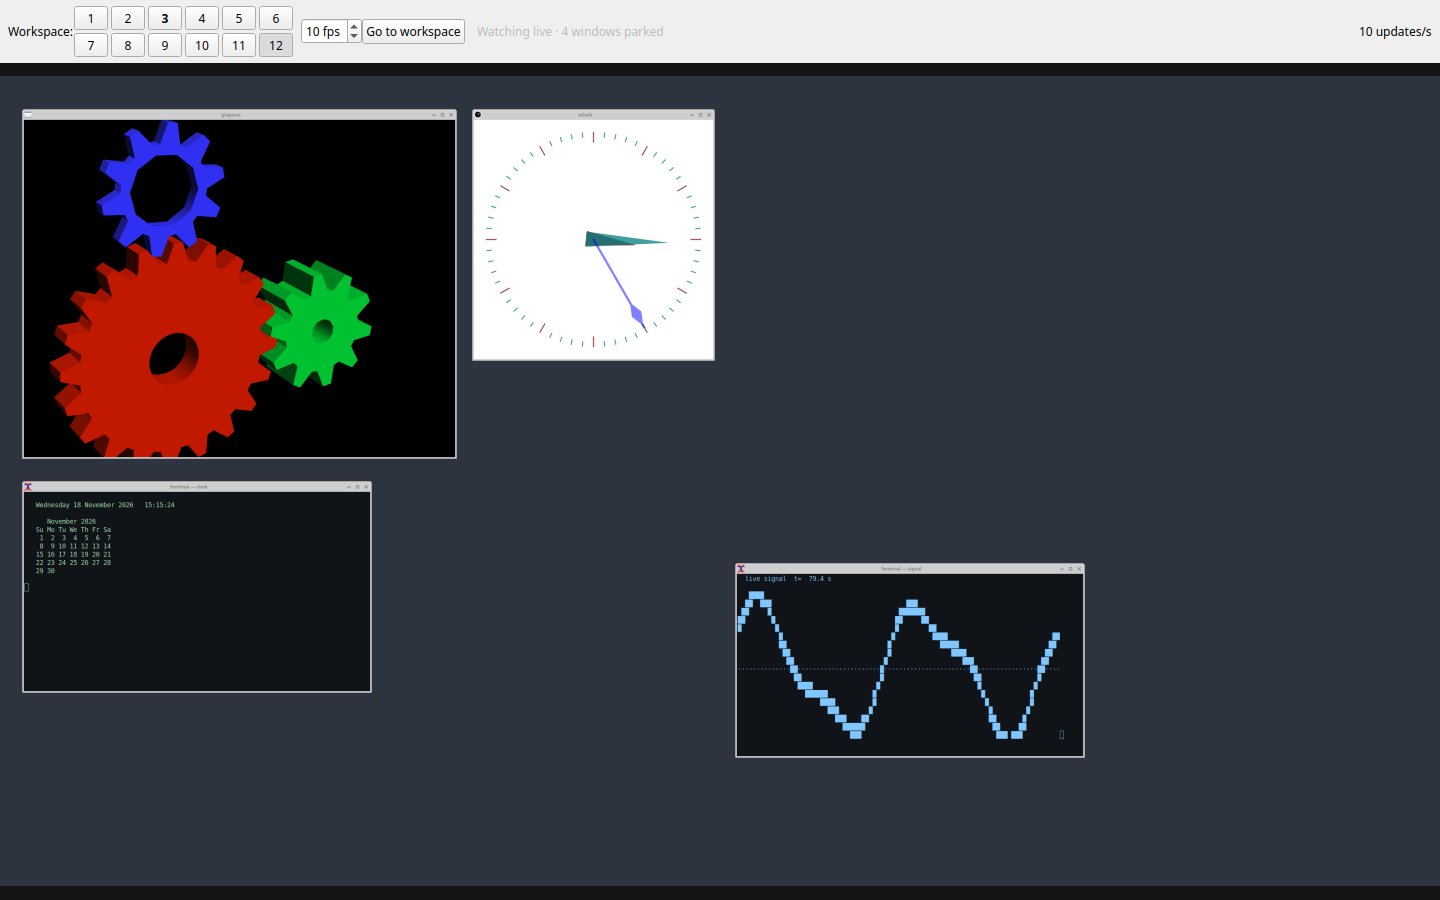
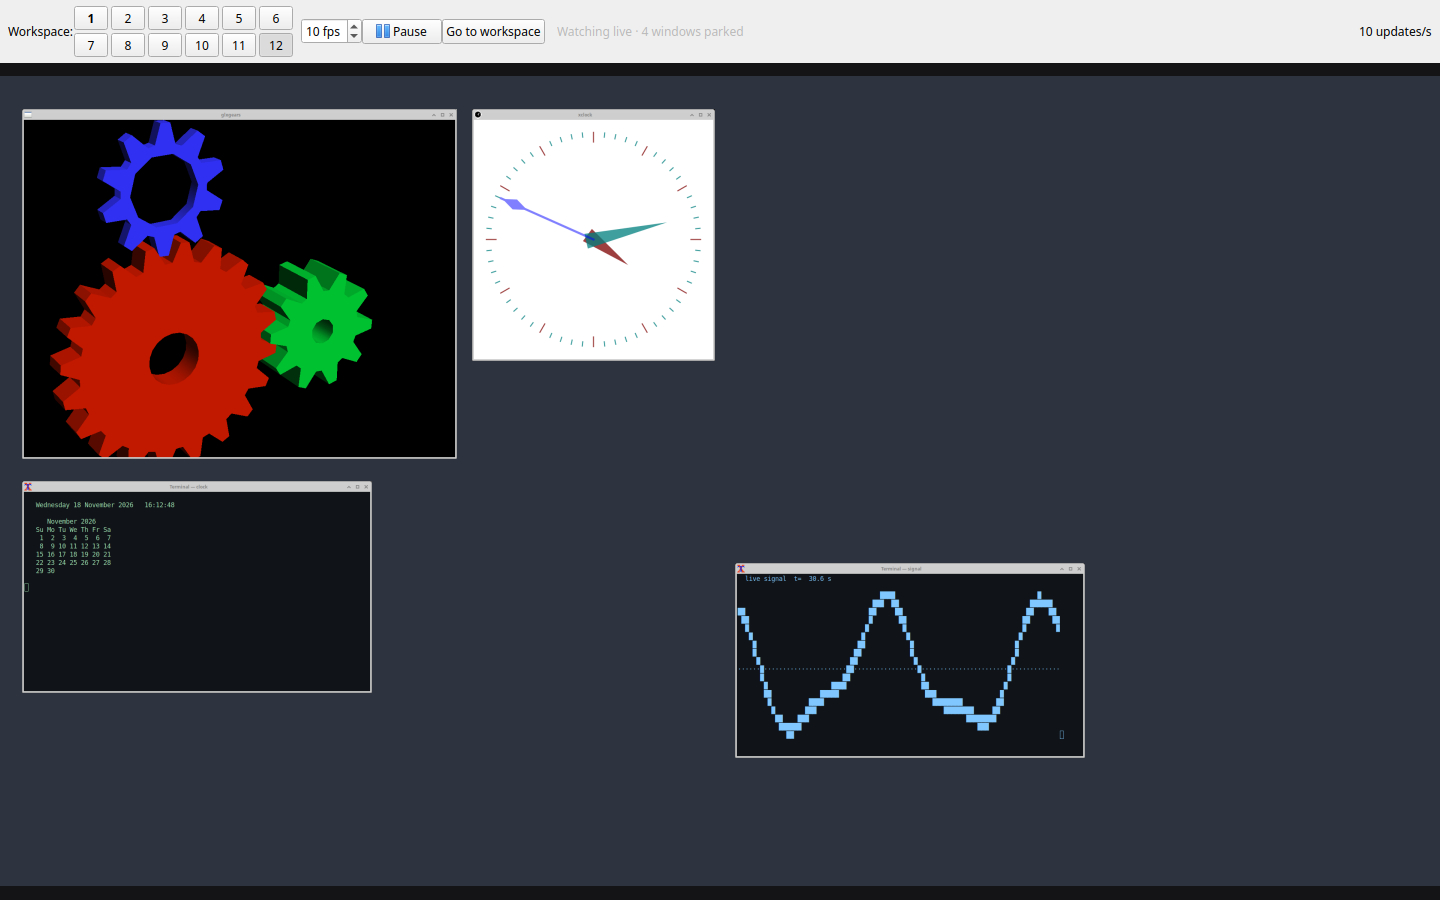
Add Pause/Resume button
Freeze the view and stop capturing without closing the app.
- Pause/Resume toggle in the toolbar (media icons from the theme),
  keyboard shortcuts P and Space, and a "Paused" badge on the view
- While paused the worker keeps housekeeping (restoring windows when you
  visit the watched workspace, handling closed windows, counts) but skips
  capture; a resize or workspace change grabs one fresh frame
- README and screenshots updated

diff --git a/xfce_workspace_viewer.py b/xfce_workspace_viewer.py
@@ -23,7 +23,7 @@ from pathlib import Path
 from PyQt5.QtCore import QObject, QRect, Qt, QThread, QTimer, pyqtSignal, pyqtSlot
 from PyQt5.QtGui import QColor, QFont, QImage, QPainter
 from PyQt5.QtWidgets import (QApplication, QButtonGroup, QGridLayout, QHBoxLayout, QLabel, QPushButton,
-                             QSizePolicy, QSpinBox,
+                             QSizePolicy, QSpinBox, QStyle,
                              QVBoxLayout, QWidget)
 
 from x11util import DamageTracker, X11, ShmCapture
@@ -155,6 +155,8 @@ class Worker(QObject):
         self.display, self.target, self.own_pid = display, target, own_pid
         self.view_w, self.view_h = 1280, 720
         self.fps = 5.0
+        self.paused = False
+        self.force_frame = False   # while paused: capture one frame (after resize / workspace change)
 
     @pyqtSlot()
     def setup(self):
@@ -175,9 +177,15 @@ class Worker(QObject):
         self.fps = fps
         self.timer.start(int(1000 / fps))
 
+    @pyqtSlot(bool)
+    def set_paused(self, paused):
+        self.paused = paused
+        self.last_list = 0.0  # refresh the status line right away
+
     @pyqtSlot(int, int)
     def set_view(self, w, h):
         self.view_w, self.view_h = max(1, w), max(1, h)
+        self.force_frame = True
         if hasattr(self, "cache"):
             self.cache.clear()
             self.last_bg = 0.0
@@ -188,6 +196,8 @@ class Worker(QObject):
             self.target = t
             self.parker.restore_all()
             self.last_list = 0.0
+            self.force_frame = True
+            self.last_bg = 0.0
 
     @pyqtSlot()
     def shutdown(self):
@@ -242,7 +252,8 @@ class Worker(QObject):
             if self.parker.records:  # user is looking at it: give the windows back
                 self.parker.restore_all()
                 self.windows = self.x.windows()
-            self.status.emit("You are on this workspace — showing it directly")
+            self.status.emit(("Paused · " if self.paused else "")
+                             + "You are on this workspace — showing it directly")
             return
         to_park = [(o, w) for o, w, rec in self._members(self.windows) if rec is None and not w.viewable]
         for order, w in to_park:
@@ -252,7 +263,8 @@ class Worker(QObject):
             time.sleep(0.05)
             self.windows = self.x.windows()
         n = len(self.parker.records)
-        self.status.emit(f"Watching live · {n} window{'s' * (n != 1)} parked")
+        mode = "Paused" if self.paused else "Watching live"
+        self.status.emit(f"{mode} · {n} window{'s' * (n != 1)} parked")
 
     # --- main loop --------------------------------------------------------------
     @pyqtSlot()
@@ -263,6 +275,12 @@ class Worker(QObject):
                 self._refresh(now)
         except Exception as e:  # keep running; report
             self.status.emit(f"error: {e}")
+
+        # Paused: keep the housekeeping above (restoring windows when you visit the workspace, closed
+        # windows, workspace counts) but skip capturing, except one frame after a resize/workspace change.
+        if self.paused and not self.force_frame:
+            return
+        self.force_frame = False
 
         sw, sh = self.x.screen_size()
         s = min(self.view_w / sw, self.view_h / sh)
@@ -317,6 +335,7 @@ class Canvas(QWidget):
         super().__init__()
         self.data = None
         self.message = "starting…"
+        self.paused = False
         self.setAttribute(Qt.WA_OpaquePaintEvent)
         self.setMinimumSize(320, 180)
         self.setMouseTracking(True)
@@ -348,6 +367,18 @@ class Canvas(QWidget):
             p.setPen(QColor(230, 230, 235))
             f = QFont(); f.setPointSize(14); p.setFont(f)
             p.drawText(QRect(ox, oy, cw, ch), Qt.AlignCenter, "No windows on this workspace")
+        if self.paused:
+            p.setClipping(False)
+            f = QFont(); f.setPointSize(11); f.setBold(True); p.setFont(f)
+            text = "❚❚  Paused"
+            tw = p.fontMetrics().horizontalAdvance(text) + 24
+            badge = QRect(self.width() - tw - 12, 12, tw, 30)
+            p.setRenderHint(QPainter.Antialiasing)
+            p.setPen(Qt.NoPen)
+            p.setBrush(QColor(0, 0, 0, 170))
+            p.drawRoundedRect(badge, 8, 8)
+            p.setPen(QColor(255, 255, 255))
+            p.drawText(badge, Qt.AlignCenter, text)
 
     def _hit(self, pos):
         if not self.data:
@@ -370,6 +401,7 @@ class Canvas(QWidget):
 
 class Viewer(QWidget):
     req_fps = pyqtSignal(float)
+    req_paused = pyqtSignal(bool)
     req_view = pyqtSignal(int, int)
     req_target = pyqtSignal(int)
     req_activate = pyqtSignal(int)
@@ -395,6 +427,12 @@ class Viewer(QWidget):
         self.fps_box.setValue(int(fps))
         self.fps_box.setSuffix(" fps")
         self.fps_box.valueChanged.connect(lambda v: self.req_fps.emit(float(v)))
+        self.pause_btn = QPushButton()
+        self.pause_btn.setCheckable(True)
+        self.pause_btn.setFocusPolicy(Qt.NoFocus)
+        self.pause_btn.setToolTip("Pause / resume refreshing the view (P or Space)")
+        self.pause_btn.toggled.connect(self._set_paused)
+        self._style_pause_btn(False)
         go = QPushButton("Go to workspace")
         go.clicked.connect(lambda: subprocess.run(["wmctrl", "-s", str(self.target)]))
         self.status = QLabel("")
@@ -407,6 +445,7 @@ class Viewer(QWidget):
         bar.addLayout(self.ws_grid)
         bar.addSpacing(8)
         bar.addWidget(self.fps_box)
+        bar.addWidget(self.pause_btn)
         bar.addWidget(go)
         bar.addSpacing(12)
         bar.addWidget(self.status, 1)
@@ -428,6 +467,7 @@ class Viewer(QWidget):
         self.worker.desktops.connect(self._on_desktops)
         self.worker.status.connect(self.status.setText)
         self.req_fps.connect(self.worker.set_fps)
+        self.req_paused.connect(self.worker.set_paused)
         self.req_view.connect(self.worker.set_view)
         self.req_target.connect(self.worker.set_target)
         self.req_activate.connect(self.worker.activate)
@@ -494,9 +534,22 @@ class Viewer(QWidget):
         self._stamps = [t for t in self._stamps if now - t < 1.0]
         self.rate.setText(f"{len(self._stamps)} updates/s")
 
+    def _style_pause_btn(self, paused):
+        icon = QStyle.SP_MediaPlay if paused else QStyle.SP_MediaPause
+        self.pause_btn.setIcon(self.style().standardIcon(icon))
+        self.pause_btn.setText("Resume" if paused else "Pause")
+
+    def _set_paused(self, paused):
+        self._style_pause_btn(paused)
+        self.canvas.paused = paused
+        self.canvas.update()
+        self.req_paused.emit(paused)
+
     def keyPressEvent(self, ev):
         k = ev.key()
-        if k == Qt.Key_F:
+        if k in (Qt.Key_P, Qt.Key_Space):
+            self.pause_btn.toggle()
+        elif k == Qt.Key_F:
             self.showNormal() if self.isFullScreen() else self.showFullScreen()
         elif k == Qt.Key_Escape and self.isFullScreen():
             self.showNormal()

diff --git a/README.md b/README.md
@@ -15,11 +15,14 @@ updating as it changes. It is view-only, so nothing you do in the viewer reaches
 - Workspace picker: a grid of numbered buttons, two rows of six for 12 workspaces.
 - Low CPU use. XDamage means only windows whose contents changed are recaptured, and the capture itself
   uses shared memory (MIT-SHM) and the compositor's off-screen pixmaps.
+- **Pause / Resume** button (or `P` / `Space`) freezes the view and stops capturing, without closing the app.
 - Double-click a window in the view to jump to it.
 - Safe: every window goes back exactly where it was (workspace, position, size, maximized or fullscreen),
   even if the viewer crashes.
 
 ![Toolbar](docs/toolbar.png)
+
+![Toolbar while paused](docs/toolbar-paused.png)
 
 ## Requirements
 
@@ -75,14 +78,20 @@ In the viewer:
 | --- | --- |
 | Number buttons | Pick the workspace to watch. The **pressed** button is the one shown, the **bold** one is where you are, and hovering shows its window count. |
 | fps box | Change the refresh rate while it runs. |
+| **Pause** / **Resume** | Freeze the view on its last frame and stop capturing, then pick up live again. A *Paused* badge shows on the view. |
 | **Go to workspace** | Switch to the workspace you're watching. |
 | Double-click a window | Jump to that window. |
+| `P` or `Space` | Pause or resume. |
 | `F` | Toggle fullscreen. |
 | `T` | Toggle always on top. |
 | `Q` | Quit. |
 
 The status line shows how many windows are parked. The counter on the right shows how many times per
 second the view actually redraws; when nothing changes, it doesn't redraw.
+
+While paused, the viewer uses almost no CPU. Parked windows stay parked, so resuming is instant, but
+switching to the watched workspace yourself still brings its windows back. If you resize the viewer or pick
+another workspace while paused, it captures a single new frame so the view stays accurate.
 
 ## How it works
 
